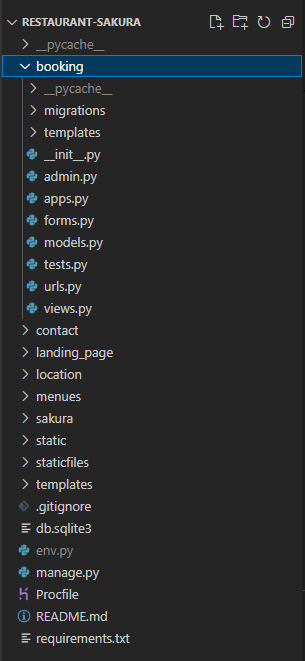
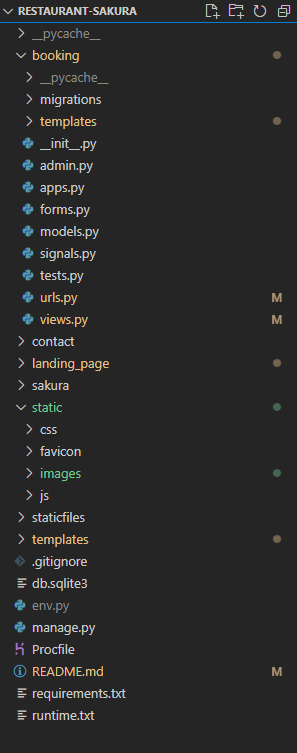
prepare project for deployment, update multiple sections and printscreens in readme.md

diff --git a/booking/templates/booking/booking_list.html b/booking/templates/booking/booking_list.html
@@ -17,8 +17,8 @@
                     <strong>Number of guests:</strong> {{ booking.guests }}<br>
                     <div id="booking-row-{{ booking.id }}" class="text-center mt-2">
                         <a class="btn btn-outline-secondary btn-edit btn-sm" href="{% url 'booking_edit' booking.id %}">Edit</a>
-                        <button class="btn btn-outline-secondary btn-delete btn-sm"
-                            data-booking-id="{{ booking.id }}">Delete</button>
+                        <a href="{% url 'booking_delete' booking.id %}" class="btn btn-outline-secondary btn-delete btn-sm"
+                            data-booking-id="{{ booking.id }}">Delete</a>
                     </div>
                 </div>
                 {% empty %}

diff --git a/booking/templates/booking/booking_delete_confirmation.html b/booking/templates/booking/booking_delete_confirmation.html
@@ -6,9 +6,8 @@
 <div class="container">
     <div class="row">
         <div class="col-12 text-center mt-5">
-            <h1>Reservation updated!</h1>
-            <p>Your reservation has been successfully updated.</p>
-            <p>See you at the table!</p>
+            <h1>Reservation deleted!</h1>
+            <p>Your reservation has been successfully deleted.</p>
             <form method="post">
                 {% csrf_token %}
                 <button class="btn btn-secondary"><a href="{% url 'booking_list' %}">Close</a></button>

diff --git a/booking/templates/booking/booking.html b/booking/templates/booking/booking.html
@@ -48,8 +48,7 @@
                 <h2 class="modal-title text-center" id="confirmationModalLabel">Booking Confirmation</h2>
             </div>
             <div class="modal-body text-center">
-                <p>Thank you for your reservation!</p>
-                <p>You will receive a reply on you email shortly.</p>
+                <p>Thank you for your reservation at Restaurant Sakura.</p>
                 <p>We look forward to seeing you at the table!</p>
             </div>
             <div class="modal-footer">

diff --git a/templates/account/signup.html b/templates/account/signup.html
@@ -1,6 +1,8 @@
 {% extends "base.html" %}
 {% load static %}
 {% load crispy_forms_tags %}
+{ % load messages % }
+
 
 {% block content %}
 
@@ -9,7 +11,7 @@
     <div class="col-12 col-md-6 mt-3">
       <h1>Sign Up</h1>
       <p>Already have an account? Then please <a href="{{ login_url }}">sign in</a></p>
-
+      
       <form class="signup" id="signup_form" method="post" action="{% url 'account_signup' %}">
         {% csrf_token %}
         {{ form.media }}

diff --git a/staticfiles/css/style.css b/staticfiles/css/style.css
@@ -221,7 +221,6 @@ h3, h4 {
 
 .grid-item {
     padding: 0px;
-    border-bottom: 1px solid #ddd;
 }
 
 .grid-item:last-child {

diff --git a/booking/views.py b/booking/views.py
@@ -92,8 +92,17 @@ def booking_delete(request, booking_id):
     Fetches booking by ID and deletes it if the request method is POST.
     If successful, displays a success message and redirects to the booking list.
     """
-    booking = get_object_or_404(BookATable, id=booking_id)
+    booking = get_object_or_404(BookATable, id=booking_id, user=request.user)
     if request.method == "POST":
         booking.delete()
-        return redirect('booking_list')
+        return redirect('booking_delete_confirmation')
     return render(request, 'booking/booking_delete.html', {'booking': booking})
+
+
+@login_required
+def booking_delete_confirmation(request):
+    """
+    Renders a confirmation page after a booking has been successfully updated.
+    """
+    return render(request, 'booking/booking_delete_confirmation.html')
+

diff --git a/booking/migrations/0008_alter_bookatable_options_and_more.py b/booking/migrations/0008_alter_bookatable_options_and_more.py
@@ -1,0 +1,21 @@
+# Generated by Django 5.1 on 2024-09-08 08:51
+
+from django.db import migrations
+
+
+class Migration(migrations.Migration):
+
+    dependencies = [
+        ('booking', '0007_alter_bookatable_options_alter_bookatable_guests_and_more'),
+    ]
+
+    operations = [
+        migrations.AlterModelOptions(
+            name='bookatable',
+            options={},
+        ),
+        migrations.RemoveConstraint(
+            model_name='bookatable',
+            name='unique_booking_per_user_per_time',
+        ),
+    ]

diff --git a/booking/urls.py b/booking/urls.py
@@ -7,4 +7,5 @@ urlpatterns = [
     path('booking/edit/<int:booking_id>/', views.booking_edit, name='booking_edit'),
     path('booking/edit/confirmation/', views.booking_edit_confirmation, name='booking_edit_confirmation'),
     path('booking/delete/<int:booking_id>/', views.booking_delete, name='booking_delete'),
+    path('booking/delete/confirmation/', views.booking_delete_confirmation, name='booking_delete_confirmation'),
 ]

diff --git a/landing_page/views.py b/landing_page/views.py
@@ -12,4 +12,4 @@ def menues_view(request):
     return render(request, 'landing_page/menues.html')
 
 def locate_restaurant(request):
-    return render(request, 'landing_page/location.html')    
+    return render(request, 'landing_page/location.html')

diff --git a/landing_page/admin.py b/landing_page/admin.py
@@ -1,4 +1,3 @@
 from django.contrib import admin
 
-# Register your models here.
 

diff --git a/README.md b/README.md
@@ -4,7 +4,7 @@ Restaurant Sakura is a fine dining restaurant focusing on the south east asian c
 
 The live website can be seen [here](https://restaurant-sakura-5d42605299d1.herokuapp.com/)
 
-![printscreen responsive website]()
+![printscreen responsive website](/static/images/printscreen/responsive_layout.png)
 
 ## Table of content
 - [UX/UI Design](#uxui-design)
@@ -47,22 +47,22 @@ The live website can be seen [here](https://restaurant-sakura-5d42605299d1.herok
 
 ## UX/UI Design
 
-I went for a quite clean design on the webpage itself - a minimal colour scheme to let the images and functions do the talking, and to give a airy feel - quite like I imagine the restaurant itself feels when you visit it! I set out with really high ambitions when it came to designing nice looking menues, responsive modals and beautiful forms to fill out - all with the help of a perfect Bootstrap grid system. Some things I managed to do - the design and visual effects on menues and modals that I imagined jsut didn't cut it into the short window of time I had for the project. The main focus was to add functionality to the different pages and make sure that the CRUD-functionality for reservations work, that the authentication part works as it should and that everything connects to the back-end and updates the Django Admin panel the way it should. To summarise - there si so much more I want to do with this webpage! But my ambition was a wee bit to high and the time a wee bit to short, as my mentor pointed out to me a couple of times. 
+I went for a clean design on the webpage itself - a minimal colour scheme to let the images and functions do the talking, and to give a airy feel - quite like I imagine the restaurant itself feels when you visit it! I set out with really high ambitions when it came to designing nice looking menues, responsive modals and beautiful forms to fill out - all with the help of a perfect Bootstrap grid system. Some of the things I managed to do - but the design and visual effects on menues and modals that I imagined, just didn't cut it into the short window of time I had for the project. The main focus was to add functionality to the different pages and make sure that the CRUD-functionality for reservations work, that the authentication part works as it should and that everything connects to the back-end and updates the Django Admin panel the way it should. To summarise - there is so much more I want to do with this webpage! But my ambition was a wee bit to high and the time a wee bit to short, as my oh so wise mentor pointed out to me a couple of times. 
 
 
 ### User Stories
 
-An agile approach was used to initialize the project - with Epics to draw out the structure for the user stories that needed to be written, and mainly to give me the bigger picture of the project. After the epics were set and the first round of user stories had been written, all the user stories were given labels to identify the must-haves, the should-haves, the could-haves and the wont-have - all in line with the MoSCoW prioritazion method.
+An agile approach was used to initialize the project - Epics to set the main structure for the user stories that needed to be written, and to give me the bigger picture of the project. After the epics were set and the first round of user stories had been written, all the user stories were given labels to identify the must-haves, the should-haves, the could-haves and the wont-have - all in line with the MoSCoW prioritazion method.
 
-When it was time to start building the project and write all the code I had about 15 User Stories to work with. Somewhere half way through the project I realised that there was not nearly enough of them to cover all the parts of the project , and even more so I came to the conclusion that I had not put enough effort into the Acceptance Criterias and Tasks belonging to each User Story to accually simplify the work process ... Lesson learned I went back to my User Story Kanban board and pretty much started from scratch - some stories were updated and a lot more were added. I put the effort in the second time and got User Stories that really helped me in the coding process and gave me a lot of testing tools to validate teh functions on the webpage. As you can imagine this process  took a lot of time that I didn't really have that far into the project - so I learned the lesson the hard way to really take the time at the beginning of the project. But it also meant that I am really comfortable with the process of writing User Stories now, whick hopefully will help me in my next project. 
+When it was time to start building the project and write all the code I had about 15 User Stories to work with. Somewhere half way through the project I realised that there was not nearly enough stories to cover all the parts of the project, and even more so I came to the conclusion that I had not put enough effort into the Acceptance Criterias and Tasks belonging to each User Story to accually simplify my work process ... Lesson learned I went back to my User Story Kanban board and pretty much started all over - some stories I decided to keep and update with new criterias and tasks, and a lot more were added. I put the effort in the second time and got User Stories that really helped me in the coding process, plus they gave me a lot of testing tools to validate the functions on the webpage. As you can imagine this process took a lot of time that I didn't really have that far into the project - so I learned the lesson the hard way to really take the time at the beginning of the project. But it also meant that I am really comfortable with the process of writing User Stories now, whick hopefully will help me in my next project. 
 
-I ended up with a total of 24 User Stories to work with in the end, the majority o them made it into the "Done" coloumn on my Project Board, while some simply didn't make it into the project at this point due to the short amount of time at my disposal. Those stories will on the other hand be great to use if I want to continue work on the project and create a really good portfolio piece for the future. 
+I ended up with a total of 23 User Stories to work with in the end, the majority o them made it into the "Done" coloumn on my Project Board, while some simply didn't make it into the project at all at this point, due to the short amount of time at my disposal. Those stories will on the other hand be great to use if I want to continue work on the project and create a really good portfolio piece for the future. 
 
-![printscreen user story]()
+![printscreen user story](/static/images/printscreen/user_stories_list.png)
 
-I do belienve some of the stories could have been split up into even smaller parts and tasks, but if I were t do that the process would be even longer - so hopefully they are enough to give a general feel for the project and its purpose for the users. There are also a lot of Stories regarding the Admin that could have been drawn out, but since my project doesn't focus on operation and andministration of an actual restaurants webpage but at this point mainly focus on the User and their interaction with the back-end and front-end of the website - I leave those stories for the future.  
+I do belienve some of the stories could have been split up into even smaller parts and tasks, but if I were t do that the process would be even longer - so hopefully they are enough to give a general feel for the project and its purpose for the users. There are also a lot of Stories regarding the Admin that could have been drawn out - but since my project doesn't focus on operation and andministration of an actual restaurants webpage, but at this point mainly focus on the User and their interaction with the back-end and front-end of the website - I leave those stories for the future.  
 
-Below are the epics and the Stories I ended up with. If they made it all the way or need more work I will discuss further down in the [User Story testing](#user-story-testing) section. 
+Below are the epics and the Stories I ended up with. If they made it all the way to the end or need more work I will discuss further down in the [User Story testing](#user-story-testing) section. 
 
 
 __EPIC: Book a table__
@@ -129,7 +129,7 @@ As a Site Admin I can moderate and respons to reviews so that all feedback is ha
 
 ### Wireframes
 
-Wireframes for both the mobile design and larger devices such as tablets and computers were made using [Balsamique](https://balsamiq.com/). The apporach was quite a simple but straight forward design and almost every view got its own wireframe to make the code process as simple and effective as possible, since the design was already drawn out. I really loved the process and even though I made some changes to some pages along the way, due to it not looking as I imagined when for example responsivness came into the picture - I kept all of the wireframes in its original state as a reference.
+Wireframes for both the mobile design and larger devices such as tablets and computers were made using [Balsamique](https://balsamiq.com/). The apporach was as mentioned a simple but straight forward design and almost every view got its own wireframe to make the code process as simple and effective as possible, since the design was already drawn out. I really loved the process and even though I made some changes to some pages along the way, due to it not looking as I imagined when for example responsivness came into the picture - I kept all of the wireframes in its original state as a reference.
 
 Below are some examples:
 
@@ -182,40 +182,37 @@ As I love working on the design of a web page it's easy to put way to much time 
 ![printscreen moscow open issues](/static/images/printscreen/open_issues.png) ![printscreen moscow closed issues](/static/images/printscreen/closed_issues.png)
 
 
-Important to note in this project is that some features which I believe are essential to a restaurants webpage and management system (and are therefor labeled with must-have) didn't make it into the "Done" column on my Kanban board, infact they didn't even make it to "In progress" - since my focus in this project isn't on the administration and management of a restaurants website but mainly on the user experience. I would love to work with those components in the future though!
-
-![printscreen MoSCoW label prioritization]()
+Important to note in this project is that some features which I believe are essential to a restaurants webpage and management system (and are therefor labeled with must-have) didn't make it into the "Done" column on my Kanban board. In fact they didn't even make it to "In progress" - since my focus in this project isn't on the administration and management of a restaurants website but mainly on the user experience. I would love to work with those components in the future though!
 
 
 
 ### Database Design
 
-Looking in the rearview mirror I set out to design a project that was a little to big to handle for little ol me - every page on the site got its on app in the root directory, because I had an idea that every page would have features that demanded its own models, views and so on ... Turns out that pages on the site like menues, location and contact could have consisted of just plain html-files placed in the projects root templates folder accompanied by some custom css. On the other hand the project is prepped for a majority of functions and cool add-ons on every page in the future since they are all structured as apps. Below is the root directory of my project, with "sakura" being the projects name, and the "booking"-app unfolded to show the content of one of the apps that fulfilles its purpose as an app at the moment. 
+Looking in the rearview mirror I set out to design a project that was a little to big to handle for little ol me - I didn't manage to finish all the things I set out to do, but hopefully I got the important stuff in place. On the other hand the project is perfect to further develop and work with in the future. 
+Below is the root directory of my project, with "sakura" being the projects name and the "booking"-app unfolded to show the content of one of the apps. The project consists of one app named landing_page that contains views and paths to html pages/templates such as Contact, Menu etc that dont need their own app structure. Then we have the booking-app and the contact-app which both contains custom models, views and forms.
 
-Project consist of one main project named sakura, one landing-page app containing multiple templates and two apps named booking and contact containing models, views and son on
-
-![printscreen root directory]()
+![printscreen root directory](/static/images/printscreen/root_directory.png)
 
 
 __Entity Relationship Diagrams(ERD)__
 
-Two custom models were made for the project, one to handle the "Book a table" form in the booking-app, and one to handle the "Contact"-form in the contact-app. Below is the original ERD's that were drawn out before the models were made. The User model is handled by the Django Framework. The ERD shows that the User model has a one-to-many relationship with my custom BookATable model - a User can make many bookings and many fields in the User model can be associated with the BookATable model, while only one field in the BookATable model is associated with one exact line in the User model.
+Two custom models were made for the project, one to handle the "Book a table" form in the booking-app, and one to handle the "Contact" form in the contact-app. Below is the original ERD's that were drawn out before the models were made. The User model is handled by the Django Framework. The ERD shows that the User model has a one-to-many relationship with my custom BookATable model - a User can make many bookings and many fields in the User model can be associated with the BookATable model, while only one field in the BookATable model is associated with one exact line in the User model.
 
 ![printscreen entity relationship diagram](/static/images/erd_diagram.png)
 
 
-I ended up making some adjustments to both my custom models later on in the development, some time after the ERD's were made. the ContactRestaurant model has been updated with a CharField for "Subject", for easier administration of the incoming questions from user. The BookATable got a CharField to be able to handle timeslots - instead of a TimeField(courtesy of my mentor).
+I ended up making some adjustments to both my custom models later on in the development, some time after the ERD's were made. the ContactRestaurant model has been updated with a CharField for "Subject", for easier administration of the incoming questions from user. The BookATable got a CharField to be able to handle timeslots - instead of a TimeField as was the case from the start (courtesy of my mentor).
 
 
 ![printscreen bookatable model](/static/images/printscreen/bookatable_model.png) ![printscreen contactrestaurant model](/static/images/printscreen/contact_restaurant_model.png)
 
 
-My BookATable model got some extra features to deal with form valiation that I would not have sorted out without the help of my mentor Spencer Barriball. 
+My BookATable model got some extra features to deal with all the form valiation that I would not have sorted out without the help of my mentor Spencer Barriball. 
 
 ![printscreen additional features bookatable model](/static/images/printscreen/additional_functions_bookatable_model.png)
 
 
-Spencer also supported me in creating a BookingManager that checks to se if the model does the trick in the database, besides from what I can see in the Django admin panel. I can run a command like the one below to be able to see all of todays booking in the terminal and make sure the database si running as it should:
+Spencer also supported me in creating a BookingManager that checks to se if the model does the trick in the database, besides from what I can see in the Django admin panel. I can run a command like the one below to be able to see all of todays booking in the terminal and make sure the database is running as it should:
 "todays_bookings = BookATable.objects.todays_bookings()
 print(todays_bookings)"
 
@@ -239,7 +236,7 @@ The mobile version containts pretty much the same features but presented in a re
 
 ### Navigation menu
 
-The navigation menu consist of links to various other pages - such as a Contact page, a Location page, a page to view the menues and a highlighted button redirecting the visitor to the page where they can book a table. It also consist of links to the restaurants social media pages, which at the moment all lead to the various landing pages of the social media platforms. At the far right of the navigation menu are two links leading to a page for Registration or Sign In - so that the visitor have the option to register an acoount and then Sign in to be able to view, edit or delete their reservation - all in line with the __CRUD__ functionality. 
+The navigation menu consist of links to various other pages - such as a Contact page, a Location page, a page to view the menues and a highlighted button redirecting the visitor to the page where they can book a table. It also consist of links to the restaurants social media pages, which at the moment all lead to the various landing pages of the social media platforms. At the far right of the navigation menu are two links leading to a page for Registration or Sign In - so that the visitor have the option to register an acoount and then Sign in to be able to view, edit or delete their reservation - all in line with the __CRUD__ functionality. When logged in the user will instead see the options of "My reservations" or "Logout" at the far right.
 
 ![printscreen web page navigation menu](/static/images/printscreen/nav-bar.png)
 
@@ -258,7 +255,7 @@ The last view on the main page consists of another appealing image and a button 
 
 ![printscreen third view landing page and footer](/static/images/printscreen/landing_page_third_view_footer.png)
 
-On mobile devices one of the images dissappear, along with the repeating Book a table-buttons as to not stack to much stuff on top of each other. Below this content is just a responsive version of the footer.
+On mobile devices one of the images dissappear, along with the repeating Book a table-button, as to not stack to much stuff on top of each other. Below this content is just a responsive version of the footer.
 
 ![printscreen mobile second view landing page](/static/images/printscreen/mobile_second_view.png)
 
@@ -269,7 +266,7 @@ The location page is pretty straight forward - information about where the resta
 
 ![printscreen restaurants location page](/static/images/printscreen/location_page.png)
 
-The mobile version of the location page is just a responsive version with the same content. 
+The mobile version of the location page is simply a responsive version with the same content. 
 
 ![printscreen mobile restaurants location page](/static/images/printscreen/mobile_location_page.png)
 
@@ -284,73 +281,76 @@ Below the contact info is a handy form that the user can choose to fill out if t
 
 ![printscreen contact form](/static/images/printscreen/contact_form.png)
 
-Mobile versions of the contact page - same contact but responsive layout. 
+Mobile versions of the contact page - same content but responsive layout. 
 
 ![printscreen contact information](/static/images/printscreen/mobile_contact_page.png) ![printscreen contact form](/static/images/printscreen/mobile_contact_form.png)
 
-In line with a user friedly interface the site user gets an immediate respons valiadating that their message has been sent succesfully, or if there is any errors with the way they filled out the form. 
+In line with a user friedly interface the site user gets an immediate respons valiadating that their message has been sent succesfully, or if there is any errors with the way they filled out the form. The validation is a po-up module created with the help of Bootstrap modules, and some custom js-script that I had to ask ChatGpt to debug in the end since I never got it quite right with redirectiong to the right urls. 
 
-![printscreen user respons from contact form]()
+![printscreen user respons from contact form](/static/images/printscreen/contact_confirmation.png)
 
 
 ### Book a table page
 
 On the page called "Book a table" the user has the option to fill out a form to make a reservation at the restaurant, without having to contact the restaurant via email or phone. All with the goal of making it as simple for the site user as possible to make the excellent decision to visit the restaurant. The mobile version of the page looks and feels the same, but responsive to different devices of course.
 
-The form contains a Timeslot function for the site users to choose from when making a reservation and validation functions that prevent users from picking a date back in time. There is also the option to add a message to the restaurant - all in line with the user story about being able to make special requests when making a reservation at the restaurant. 
-
-plus cant book more than 30 days in advance, 
-avaliable seats limit to 100
-
 ![printscreen book a tabel form](/static/images/printscreen/booking_page.png)
 
-The site user will get a direct respons on the webpage confirming a successful booking, or different validation error messages if something is filled in incorrectly.They will also recieve an email confirmation containing the booking information. 
+The form contains a Timeslot function for the site users to choose from when making a reservation and validation functions that prevent users from picking a date back in time. There is also the option to add a message to the restaurant - all in line with the user story about being able to make special requests when making a reservation at the restaurant. There are also some validation features making sure you cannot book a table to far into the future (30 days or more), and no bigger party than 8 guests. 
 
-![printscreen user respons from booking form]()
+![printscreen validaton past dates](/static/images/printscreen/error_booking_date.png) ![printscreen validation 30 days](/static/images/printscreen/30_days_validation.png)
+
+The site user will get a direct respons on the webpage confirming a successful booking, or different validation error messages if something is filled in incorrectly.
+
+![printscreen user respons from booking form](/static/images/printscreen/booking_confirmation.png)
 
 
 ### Register account/sign in and view reservations page
 
+The Sign-Up/Register and Sign-in page have the same feel to them and the forms got some styling with the help of Django Crispy forms. They both contain password validation.
+
+![printscreen sign up](/static/images/printscreen/sign-up_page_large.png)
+
+![printscreen sign in](/static/images/printscreen/sign_in_larger_screen.png)
+
+The mobile version contains the same info but in a responsive design. 
+
+![printscreen mobile sign up](/static/images/printscreen/sign-up_page.png) ![printscreen mobile sign in](/static/images/printscreen/sign_in_page.png)
+
+When logged in the user has the option to logut, before they do so they get the question to confirm logging out a second time. 
+
+![printscreen sign out confirmation](/static/images/printscreen/sign_out.png)
 
 
-![printscreen]()
+When registered and logged in the user has the option to view a list of their reservations (that have been made after they registered for an account) and there they can edit or choose to delte their reservation. The reservations are ordered by date with the closest upcomming one first.
 
-![printscreen]()
+![printscreen reservation list](/static/images/printscreen/list_reservations.png)
 
-![printscreen]()
+When choosing to edit the user is redirected to a form similar to the original Booking form, where they can update all the fields if they want to and then save their changes. 
 
-![printscreen]()
+![printscreen edit reservation](/static/images/printscreen/edit_reservation.png)
+
+Unfortunately I didn't get an confirmation modal working for the edit confirmation and delete confirmation, so to confirm their actions the user is redirected to a new page, and then back to the list of reservations view. 
+
+![printscreen edit confirmation](/static/images/printscreen/edit_confirmation.png)
 
 
 
 ### Potential future features
 
-There are A LOT of features that can be added to the page. The project became a bit bigger than my current skill set and even though I probably would have worked out a lot of the functions if I had the time for it - I unfortunately do not. 
+There are A LOT of features that can be added to the page. The project became a bit bigger than my current skill set and even though I probably would have worked out a lot of the functions if I had the time for it - I unfortunately do not at this point.
 
 There is still many functions to be added when it comes to the administration of the page - such as a UX friendly interface for the staff to deal with customer inquieres, modify bookings and so on - but that is a whole different project. 
 
 Another part of the project that would add a lot of value to the user would be a page dedicated to reviews. And those user stories I have written regarding reviews would have been a nice place to start to get the CRUD-functionality up and running. Unfortunately I didn't come to that conclusion until way to late into the project - so I decided to stick with the user being able to edit a reservation. If I were to do it again I would have started with a review page and probably be satisfied with that. 
 
-I would also have loved some form of interactive picture section, with for example images tagged on Instagram taken at the restaurant. 
+I would also have loved some sort of interactive picture section, with for example images tagged on Instagram taken at the restaurant. 
 
-Another important feature for a restaurant to have would be a function for sending an email to the visitor with their booking confirmation, in case they make a reservation at the restaurant. I started working on that but quickly gave up the idea due to other functions that were more important to get up and running. 
+Another important feature for a restaurant to have would be a function for sending an email to the visitor containing their booking confirmation and the booking policy, in case they make a reservation at the restaurant. I started working on that but quickly gave up the idea due to other functions that were more important to get up and running. 
 
-Acceptance criterias regarding cancellation 
-The system prevents modifications or cancellations within a certain timeframe (e.g., 24 hours before the booking), if applicable.
+I would also like to add some Acceptance Criterias and functions regarding cancellations closer than 24 hours before the reservation, a unique booking number for user reference when interacting with the restaurant, the ability to book tables for bigger events, notification of fully booked timeslots and the list goes on. 
 
-Unique booking numer for reference, reminder of booking
-boka bord för special event
-upptagent tidsslot
 
-The booking policy is included in the confirmation email sent to the visitor.
-
-mailto:link i contact, phonenumber clickable
-
-Special hours (e.g., holidays or special events) can be displayed and updated easily by the administrator.
-
- - Create an interface for administrators to update the hours without needing to modify code.
-
- recover password
 
 ## Technologies used
 
@@ -362,7 +362,7 @@ Special hours (e.g., holidays or special events) can be displayed and updated ea
 
 
 ### Database
-- CI Database URL (Postgres) - used to store all data
+- CI Database URL (Postgres) - used to store all data.
 
 
 ### Frameworks
@@ -391,9 +391,10 @@ Django - main framework for a secure and resuable development process.
 Images are hosted in the projects static directory for this project, but in the future I want to work Cloudinary.
 
 
+
 ## Manual testing
 
-The manual testing consisted of not only the things listed below, but they also meant asking everybody I know to test the website and all its functions such as filling out the Contact form, Booking a table via the form, register for an account and then login to see their reservations - and of course try to update or delete a reservation.
+The manual testing consisted of not only the things listed below, but the testing also meant asking everybody I know to test the website and all its functions - such as filling out the Contact form, Booking a table via the form, register for an account and then login to see their reservations - and of course try to update/edit or delete a reservation. All while I checked the admin panel for real-time action. 
 
 ### Responsivness 
 
@@ -423,7 +424,7 @@ There were quite a few files to run throught the PEP8 validator, many of them wi
 
 ![printscreen python validator](/static/images/printscreen/python_validator.png)
 
-When testing the accessibility using Lighthouse for Chrome,
+When testing the accessibility using Lighthouse for Chrome, the result didn't really end up where I like them to be, but I'll go with that for now. 
 
 ![printscreen lighthouse]()
 
@@ -452,6 +453,8 @@ Most of them have been sorted out in the end - mainly thanks to Google and some 
 Some things I haven't been able to sort out up to date - when a site user first makes a booking as a guest, and then registers for an accound the connection between their email and reservations isn't fully in place. So at the moment only users that have registered and then Make a reservation can view and edit their reservations. I tried to sort it out with adding a signals.py file to my booking app and updating the apps.py but its still not in place. 
 
 Also some alert messages that follow along with the Django Allauth is causing havock on the admin page when you make a lot of successful registrations, sign ins, bookings and so on at the same time. Good thing the messages work though - but not in an optimal way just yet. 
+
+At this point the confirmation messages for signing in and out only show up on the admin panel page, and even though I have tried to redirect the messages, create modules and tried to redirect the Sign-In action to a new page based on a confirmation html-file there were always a new error showing up - so for the being this function does not work as I intended it to. 
 
 
 ## Deployment
